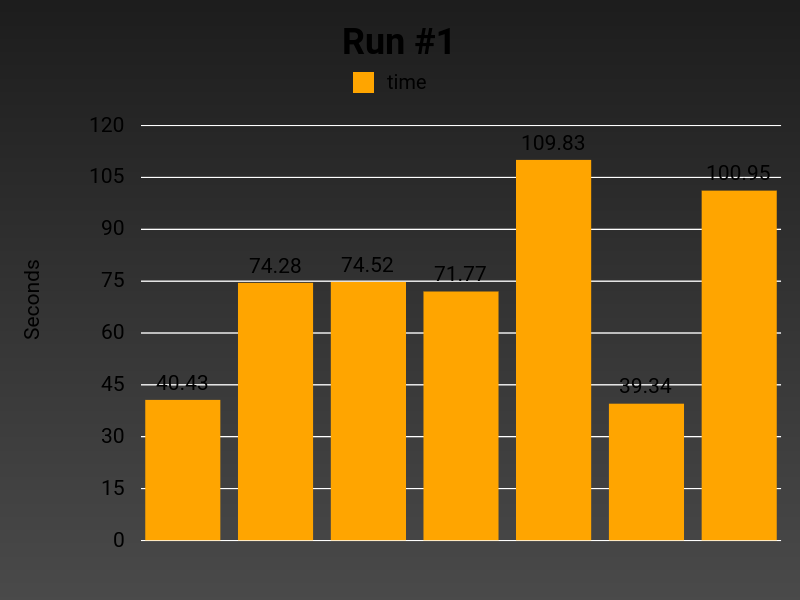
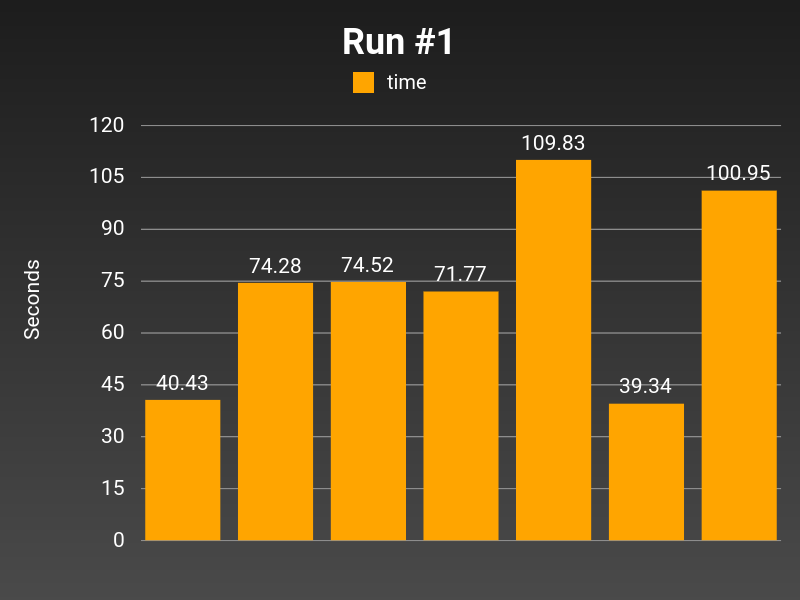
improved grpah colors

diff --git a/graphs/render.rb b/graphs/render.rb
@@ -9,7 +9,8 @@ data = JSON.parse raw_file
 g = Gruff::Bar.new('800x600')
 g.theme = {
   :colors => %w[orange purple green white red #cccccc],
-  :marker_color => 'white',
+  :marker_color => '#8d8d8d',
+  :font_color => 'white',
   :background_colors => %w[#1d1d1d #4a4a4a]
 }
 g.show_labels_for_bar_values = true
